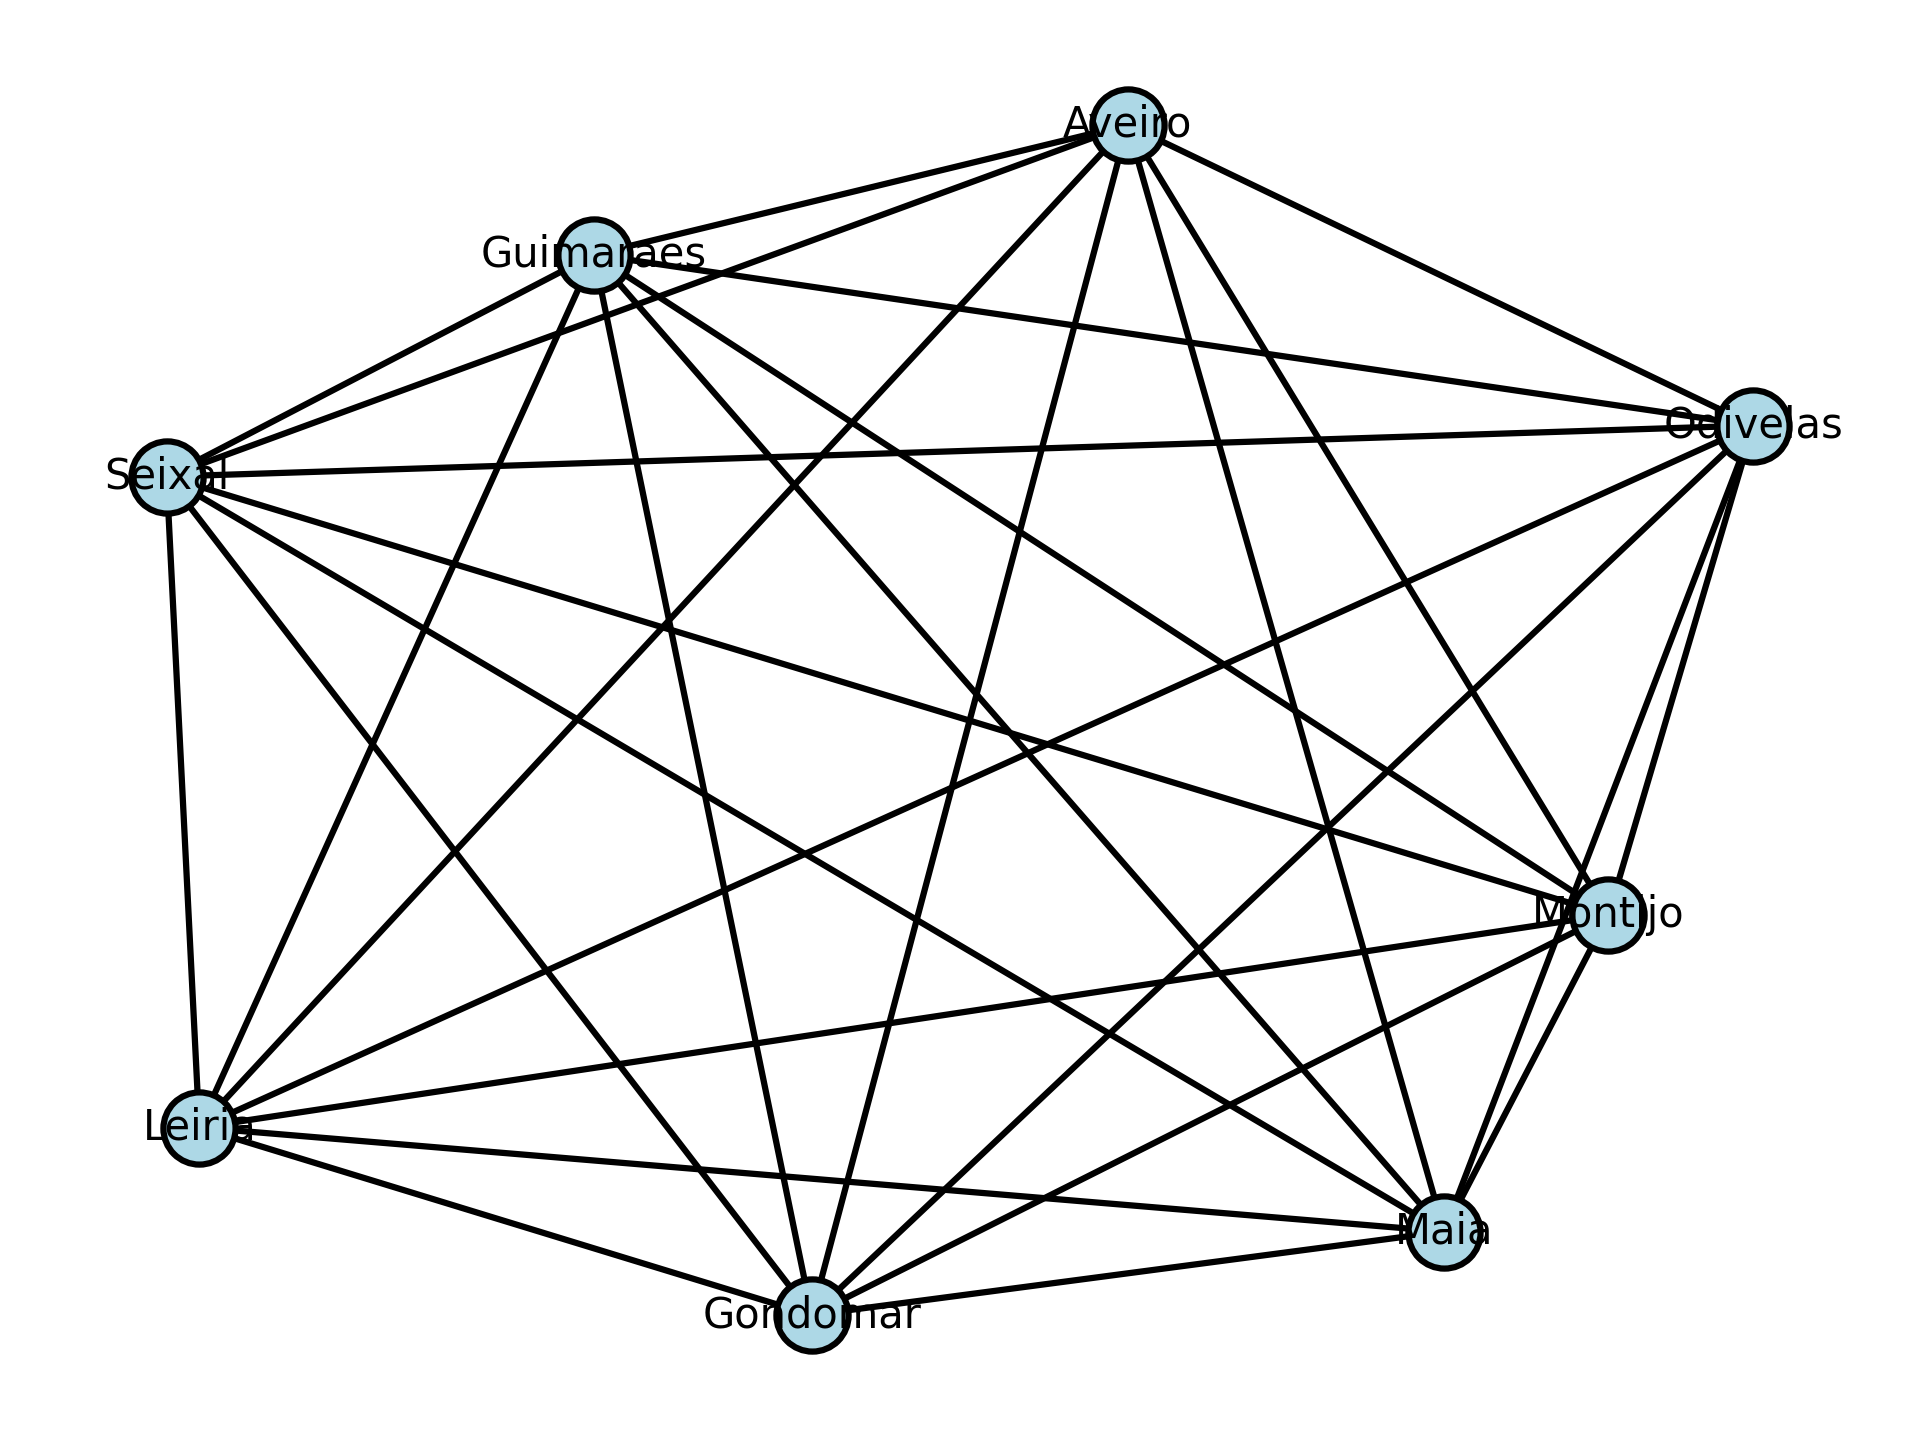
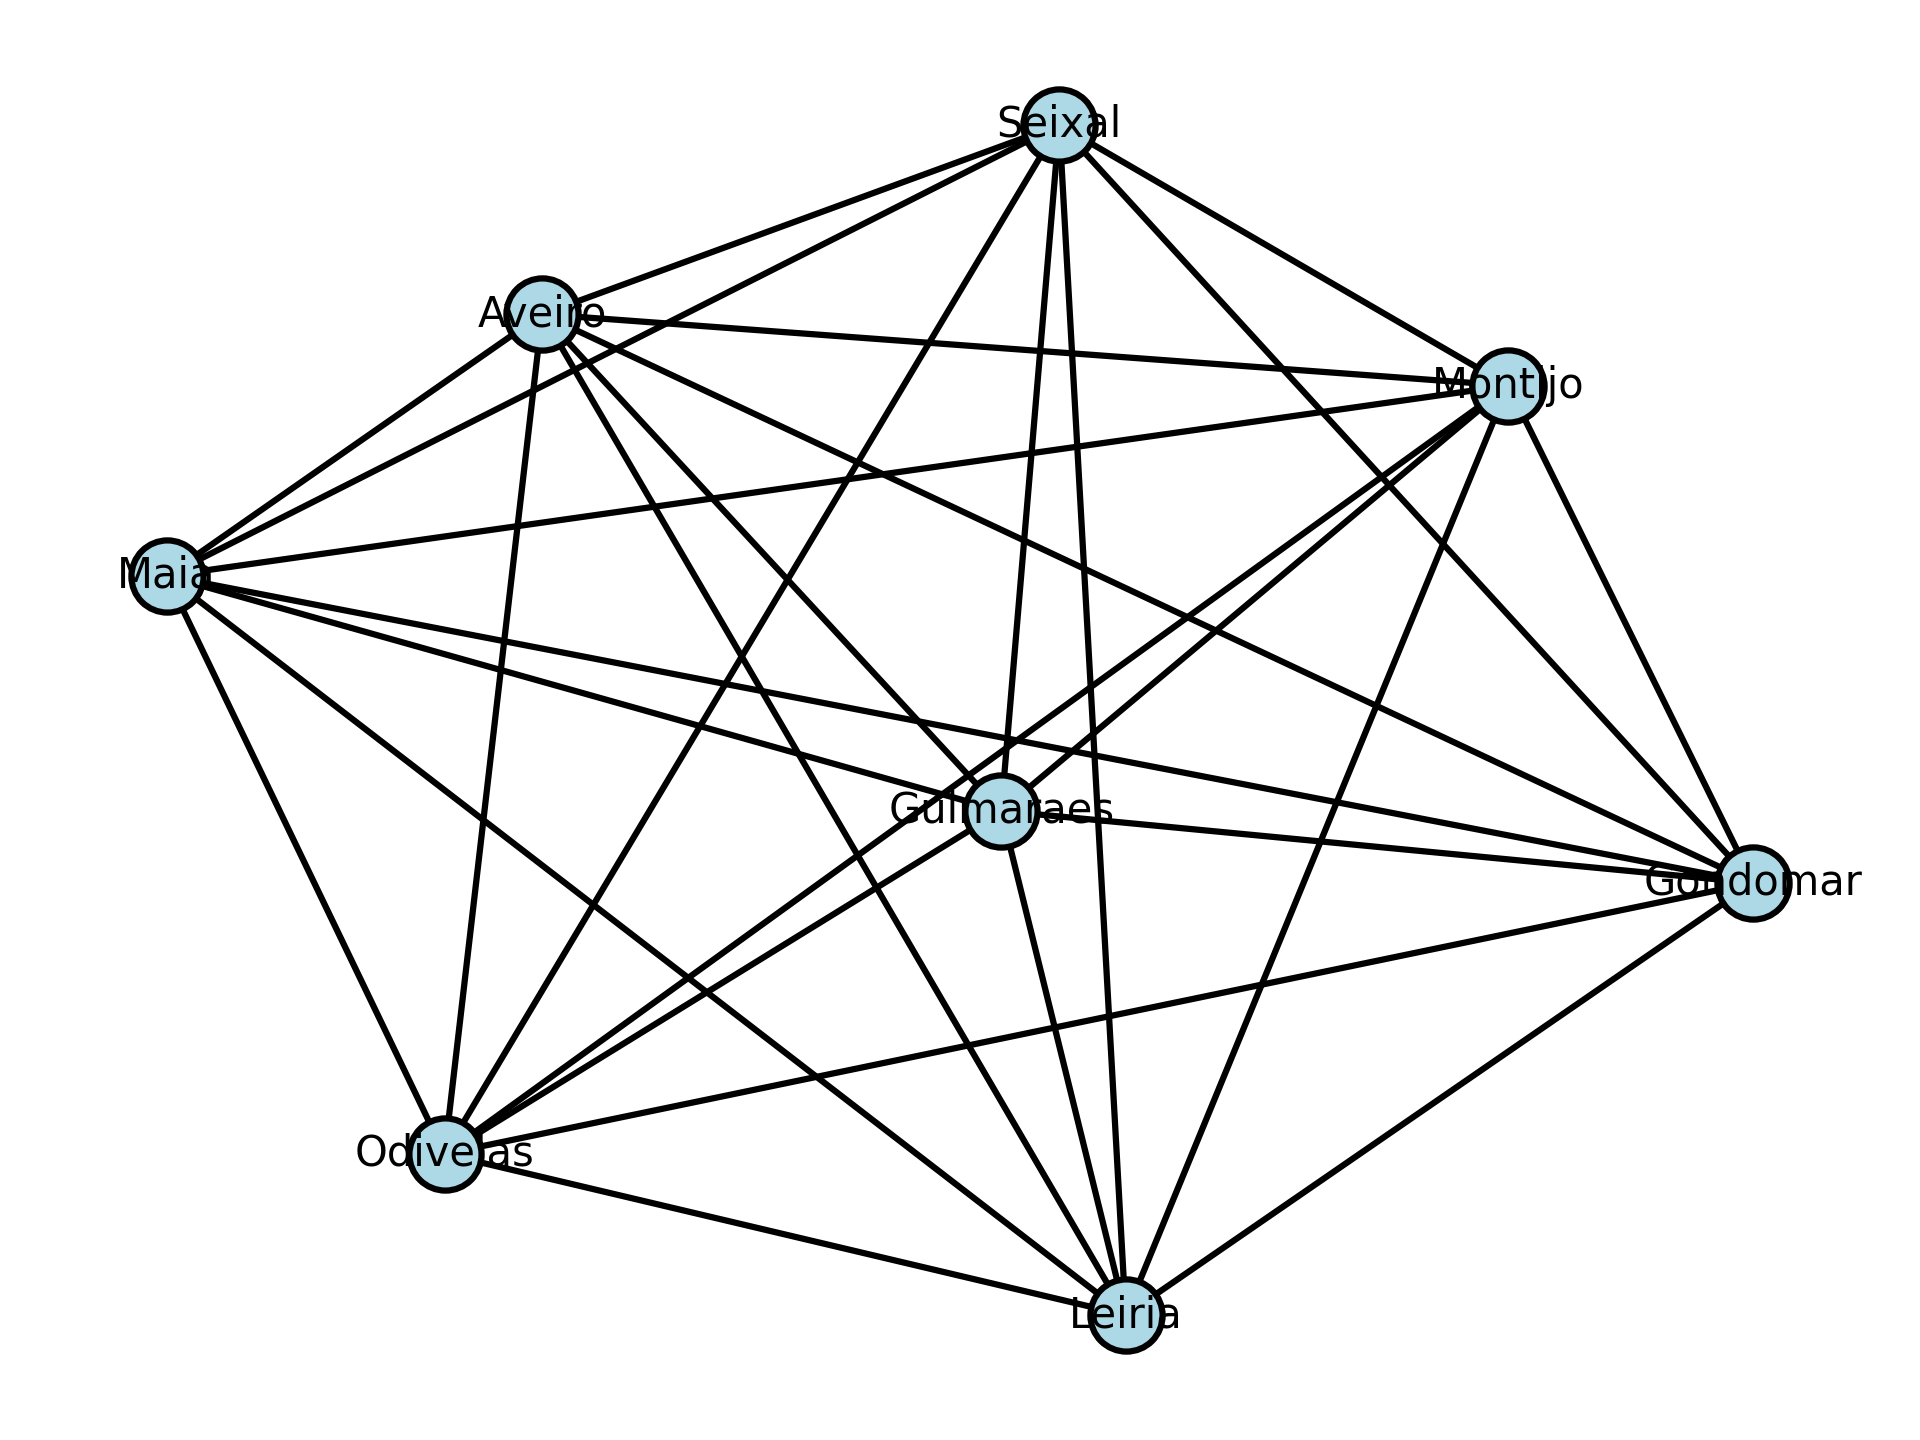
New Docs

Changed region(s): [[0.0625, 0.0625, 0.9688, 0.9375]]

diff --git a/main.py b/main.py
@@ -55,7 +55,7 @@ options = {
 }
 
 layout_params = {
-    "k": 0.2,
+    "k": 1,
     "iterations": 50,
 }
 
